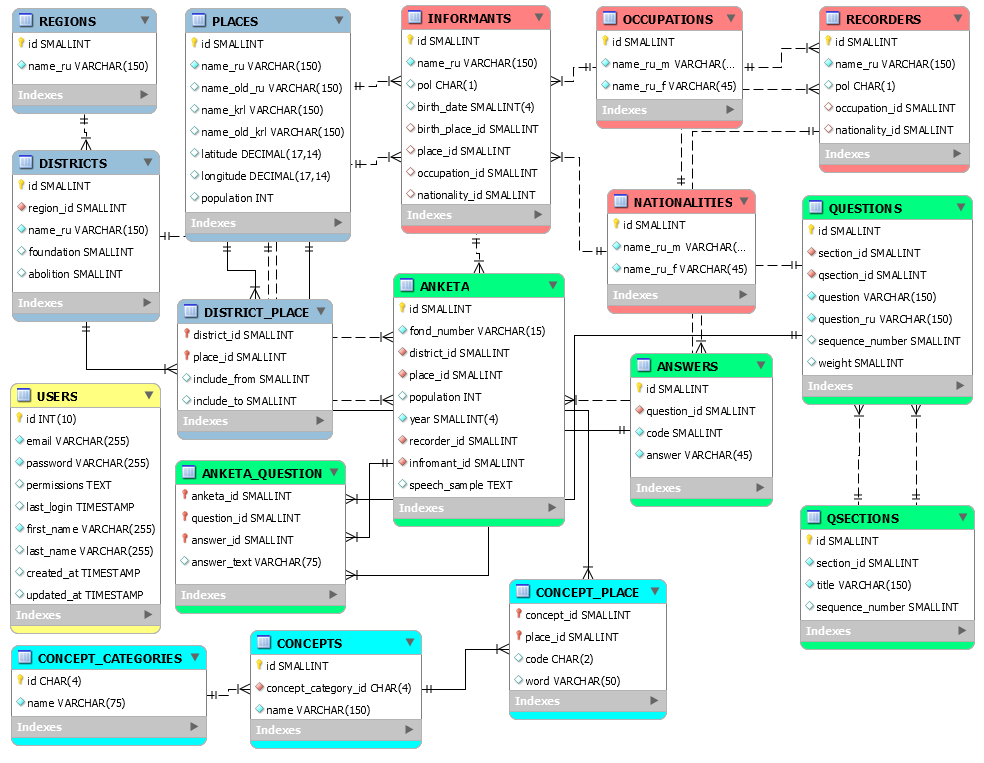
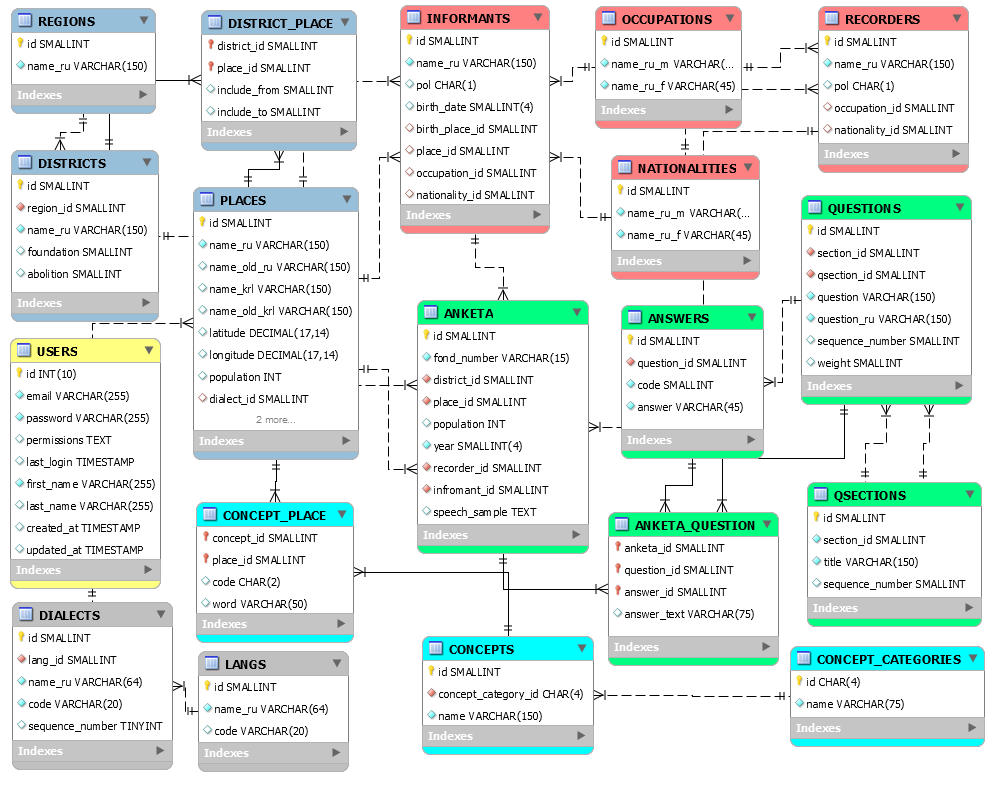
place sequence number

diff --git a/app/Models/Geo/Place.php b/app/Models/Geo/Place.php
@@ -28,7 +28,7 @@ class Place extends Model
     
     public $timestamps = false;
     protected $fillable = ['name_ru', 'name_old_ru', 'name_krl', 'name_old_krl', 
-                           'latitude', 'longitude', 'population', 'dialect_id'];
+                           'latitude', 'longitude', 'population', 'dialect_id', 'sequence_number'];
     
     use \App\Traits\Methods\getNameAttribute;
     use \App\Traits\Methods\getList;
@@ -249,7 +249,7 @@ class Place extends Model
     }
     
     public static function search(Array $url_args) {
-        $places = self::orderBy('id'); //name_ru
+        $places = self::orderBy('sequence_number'); //'id'
 
         $places = self::searchIntField($places, 'id', $url_args['search_id']);
         $places = self::searchIntField($places, 'dialect_id', $url_args['search_dialect']);
@@ -532,7 +532,7 @@ class Place extends Model
         $place = self::find($place_id);
         return ['latitude'=>$place->latitude,
                 'longitude'=>$place->longitude,
-                'place_id' => $place_id,
+                'place_id' => $place->sequence_number,
                 'popup' => $place->id.'. <b>'.$place->name_ru.'</b>'
                 . ($place->dialect ? '<br>'.$place->dialect->name : '')
                                      . $place->popupInfo($qsection_ids, $question_ids, $data_type)];

diff --git a/resources/views/geo/place/index.blade.php b/resources/views/geo/place/index.blade.php
@@ -27,7 +27,7 @@
         <table class="table-bordered table-wide rwd-table wide-md">
         <thead>
             <tr>
-                <th>ID</th>
+                <th>No</th>
 {{--                <th>{{ trans('geo.region') }}</th> --}}
                 <th>{{ trans('geo.district') }}</th>
                 <th>{{ trans('geo.name') }} {{ trans('messages.in_russian') }}</th>
@@ -46,7 +46,7 @@
         </thead>
         <tbody>
             @foreach($places as $place)
-            <tr><td data-th="ID">{{$place->id}}</td>
+            <tr><td data-th="No">{{$place->sequence_number}}</td>
 {{--                <td data-th="{{ trans('geo.region') }}">{{$place->regionNames()}}</td> --}}
                 <td data-th="{{ trans('geo.district') }}">
                     @if ($place->districts)

diff --git a/database/migrations/2023_04_18_084821_add_sequence_number_in_places_table.php b/database/migrations/2023_04_18_084821_add_sequence_number_in_places_table.php
@@ -1,0 +1,32 @@
+<?php
+
+use Illuminate\Database\Migrations\Migration;
+use Illuminate\Database\Schema\Blueprint;
+use Illuminate\Support\Facades\Schema;
+
+class AddSequenceNumberInPlacesTable extends Migration
+{
+    /**
+     * Run the migrations.
+     *
+     * @return void
+     */
+    public function up()
+    {
+        Schema::table('places', function (Blueprint $table) {
+            $table->smallInteger('sequence_number')->nullable();
+        });
+    }
+
+    /**
+     * Reverse the migrations.
+     *
+     * @return void
+     */
+    public function down()
+    {
+        Schema::table('places', function (Blueprint $table) {
+            $table->dropColumn('sequence_number');
+        });
+    }
+}

diff --git a/resources/views/geo/place/_form_create_edit.blade.php b/resources/views/geo/place/_form_create_edit.blade.php
@@ -3,6 +3,10 @@
 <div class="row">
     <div class="col-sm-6">
         @include('widgets.form.formitem._text', 
+                ['name' => 'sequence_number', 
+                 'title'=>trans('messages.sequence_number')])
+                 
+        @include('widgets.form.formitem._text', 
                 ['name' => 'name_ru', 
                  'title'=>trans('geo.name').' '.trans('messages.in_russian')])
                  
